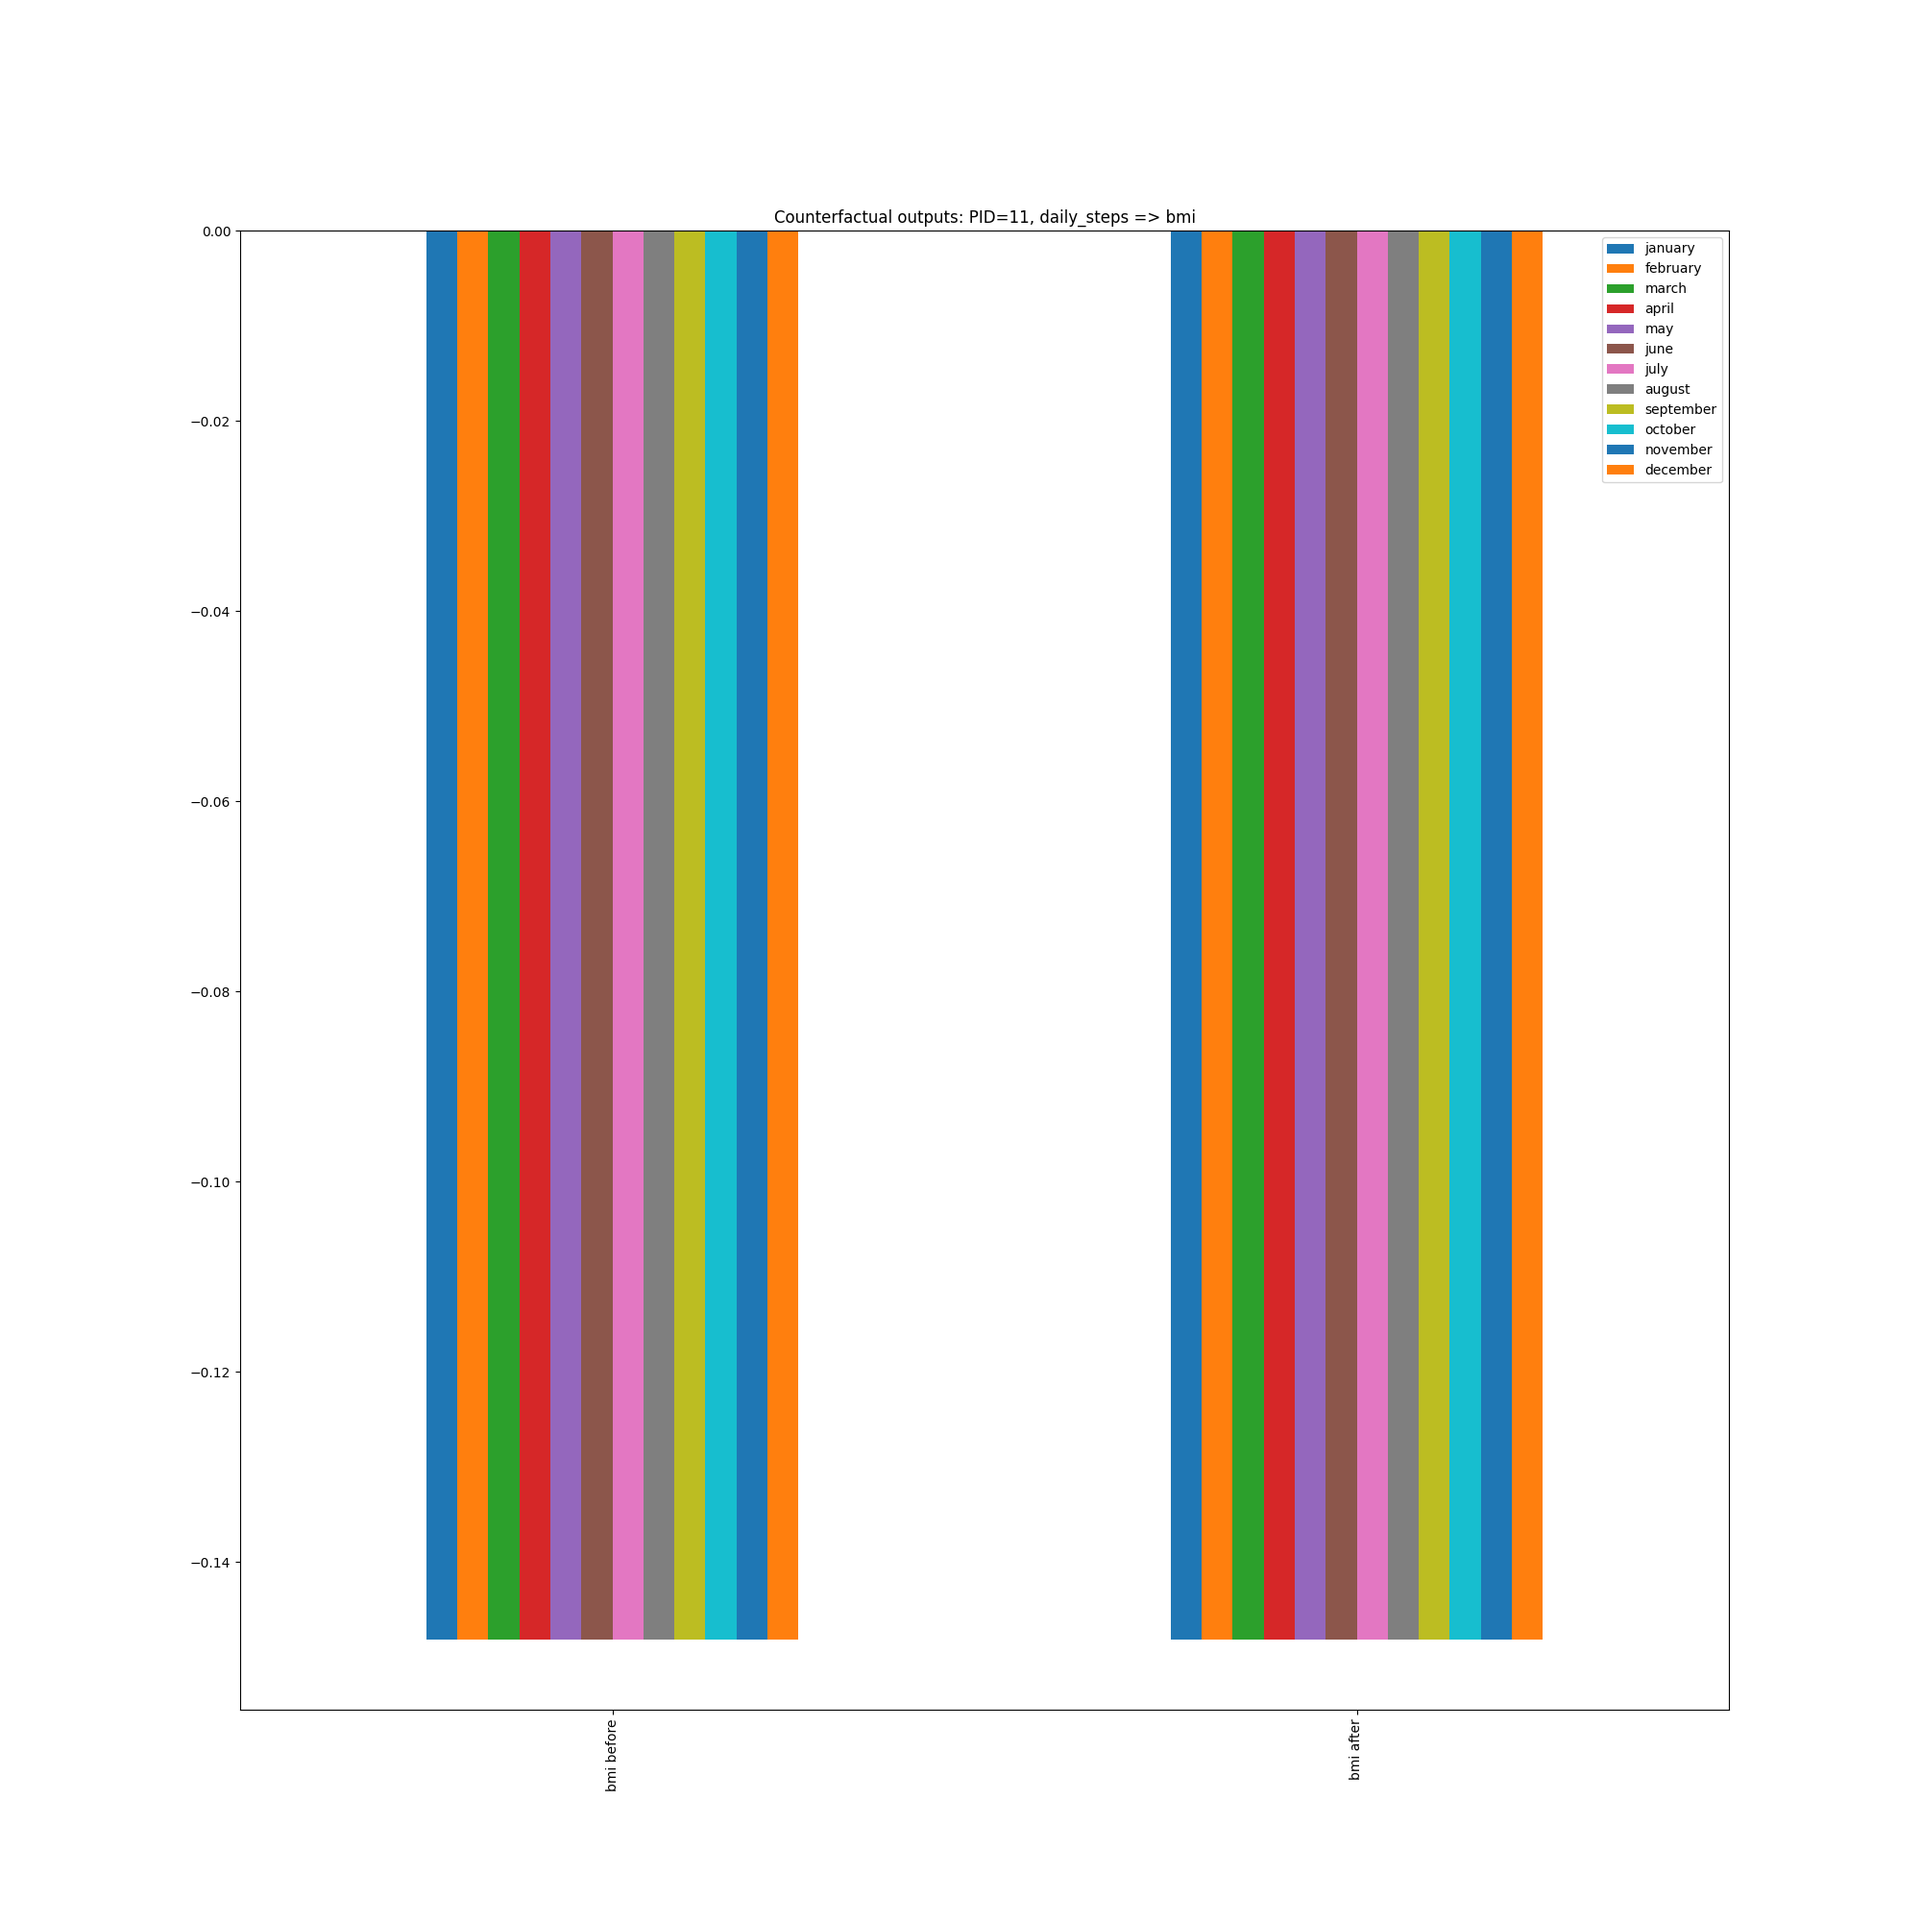
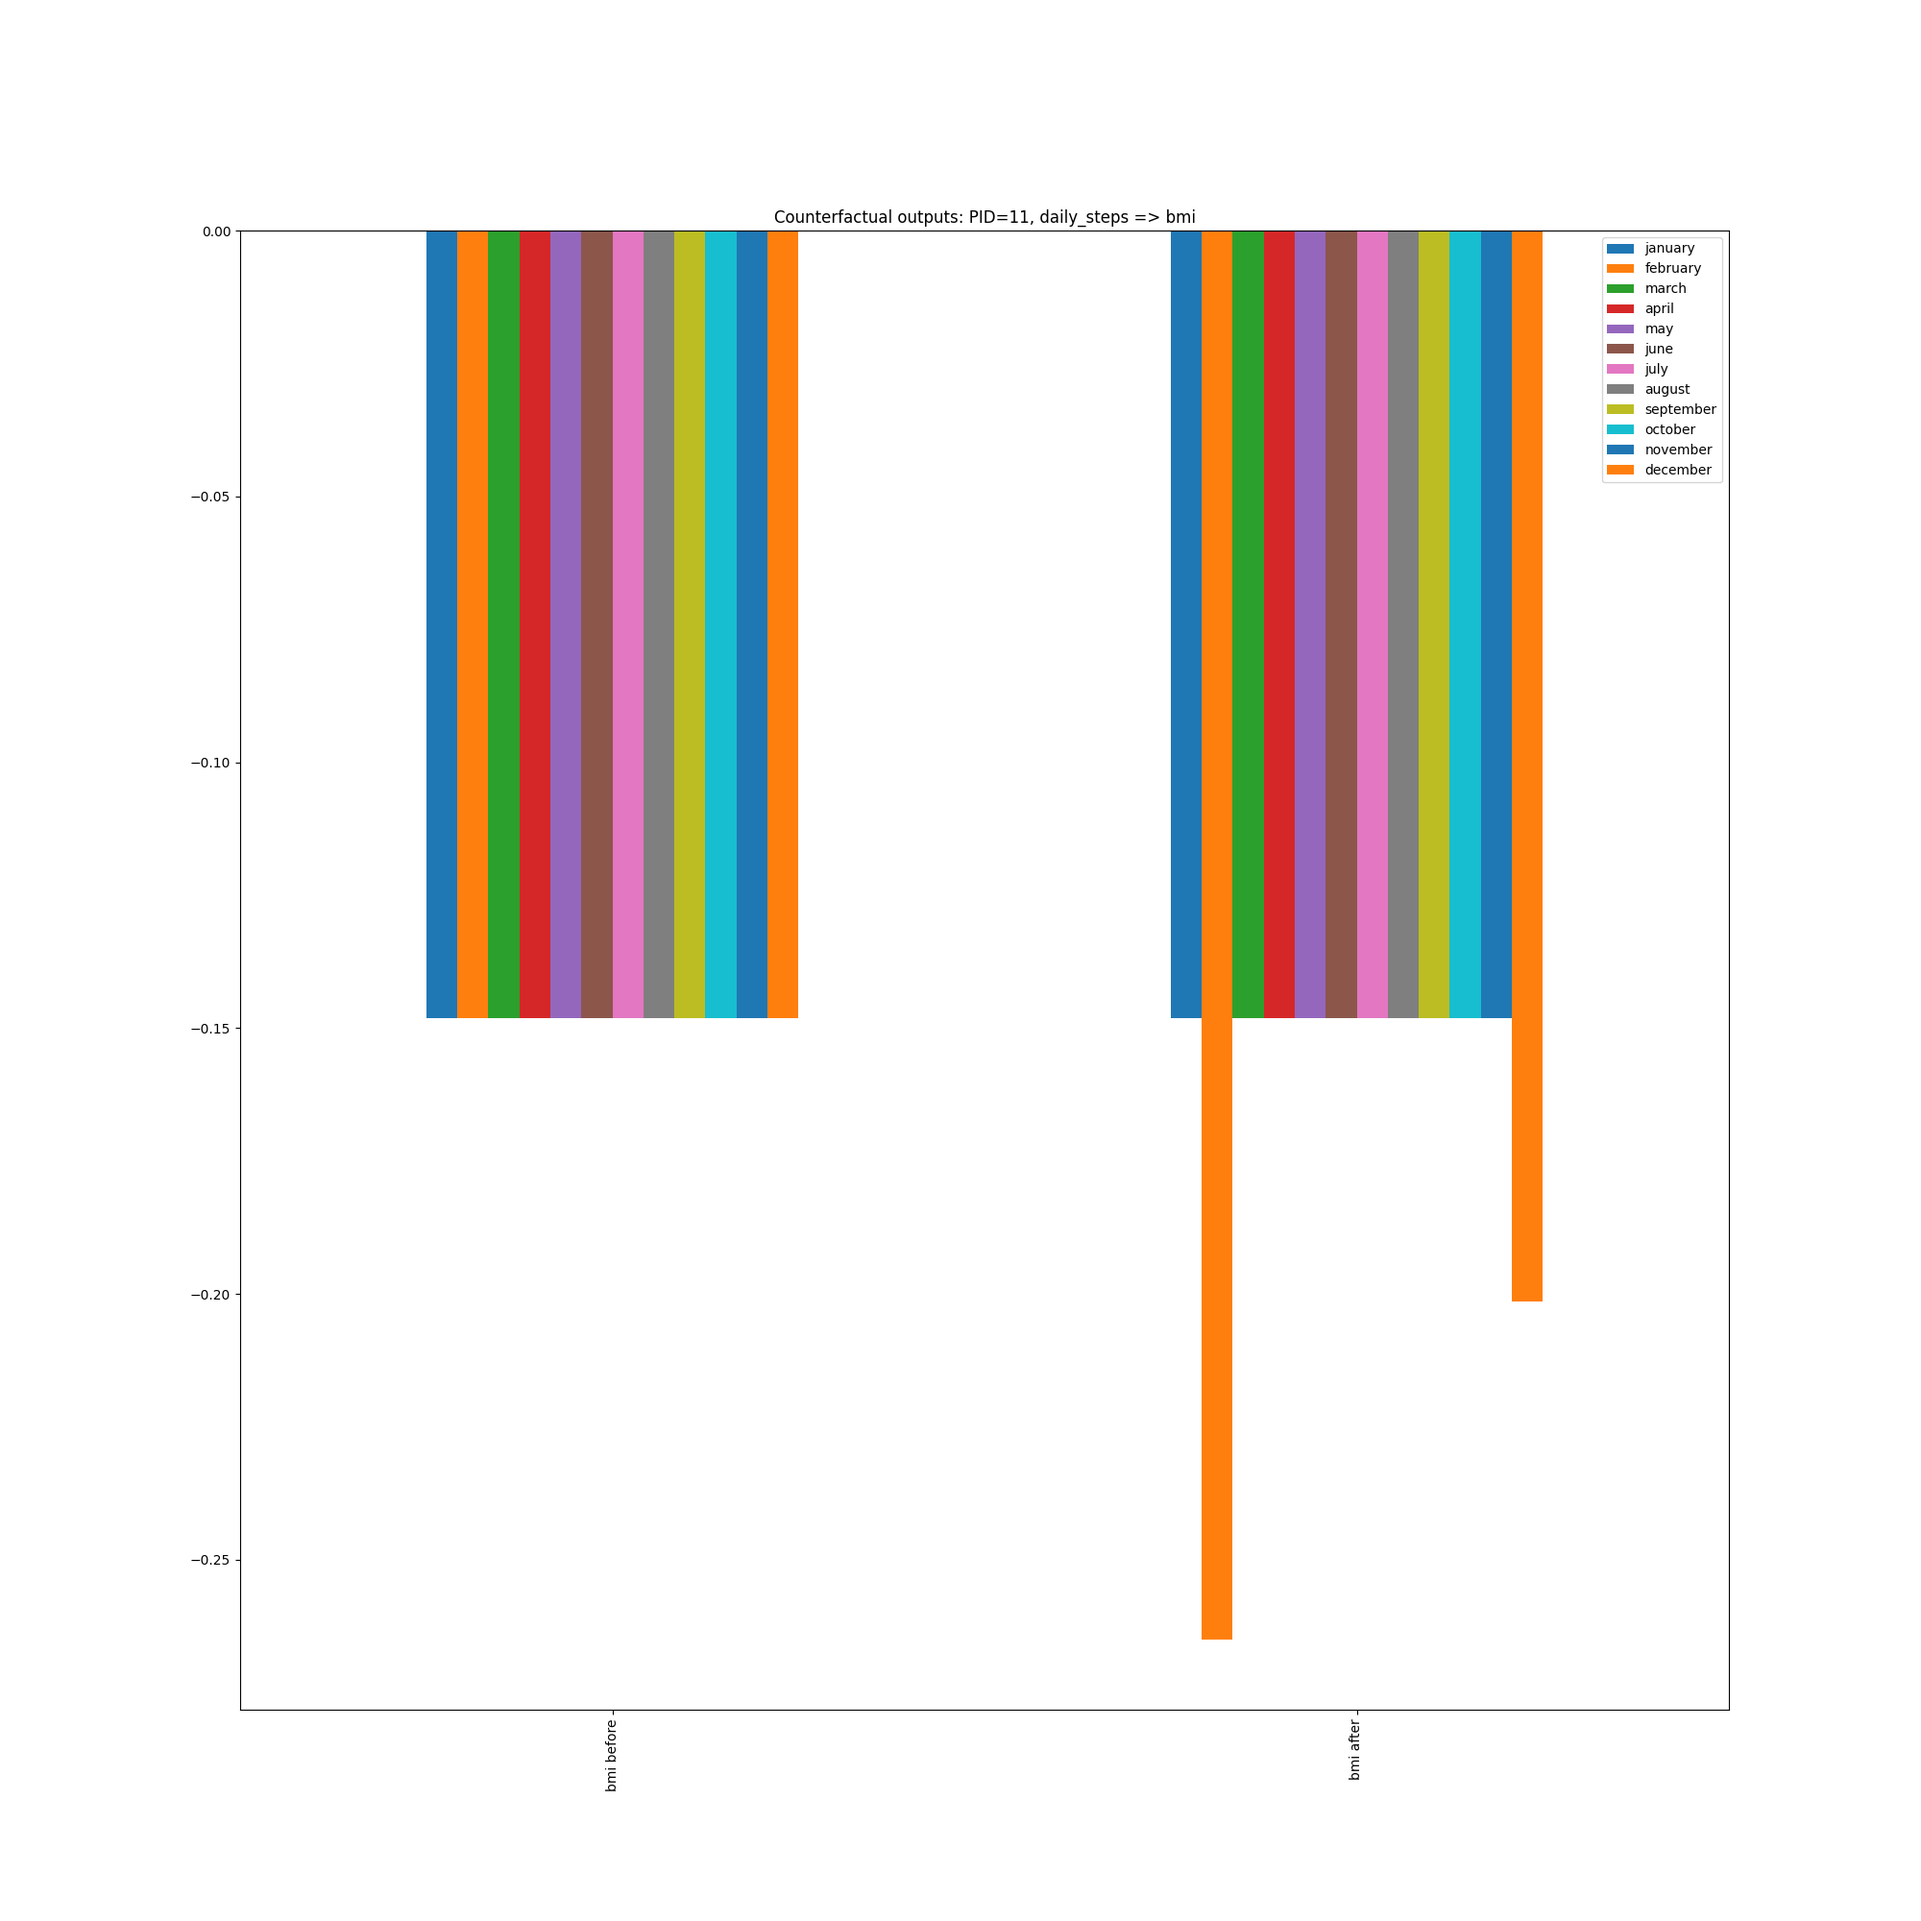
even more fixing on the graphs

Changed region(s): [[0.589, 0.527, 0.806, 0.868], [0.217, 0.527, 0.434, 0.868]]

diff --git a/personas_analysis.py b/personas_analysis.py
@@ -12,7 +12,9 @@ warnings.filterwarnings(action='ignore', category=UserWarning)
 
 set_random_seed(7)
 
-fitness_data = pd.read_csv(
+fitness_data_training = pd.read_csv(
+    '/Users/luca_lavazza/Documents/GitHub/Health_Cefriel/datasets/labelled_regularised_averaged_health_fitness_dataset_training.csv')
+fitness_data_testing = pd.read_csv(
     '/Users/luca_lavazza/Documents/GitHub/Health_Cefriel/datasets/labelled_regularised_averaged_health_fitness_dataset_testing.csv')
 edges = np.load(
     '/Users/luca_lavazza/Documents/GitHub/Health_Cefriel/graphs/causallearn/edges/npy/labelling_causal_graph_causal-learn_pc_fisherz.npy')
@@ -28,17 +30,16 @@ G.add_nodes_from(nodes)
 G.add_edges_from(edges)
 
 causal_model_for_counterfactual_analysis = InvertibleStructuralCausalModel(G)
-gcm.auto.assign_causal_mechanisms(causal_model=causal_model_for_counterfactual_analysis, based_on=fitness_data,
+gcm.auto.assign_causal_mechanisms(causal_model=causal_model_for_counterfactual_analysis, based_on=fitness_data_training,
                                   quality=AssignmentQuality.GOOD)
-fitting = gcm.fit(causal_model=causal_model_for_counterfactual_analysis, data=fitness_data,
+fitting = gcm.fit(causal_model=causal_model_for_counterfactual_analysis, data=fitness_data_training,
                   return_evaluation_summary=True)
-
 pids_personas = [2, 5, 6, 8, 11, 26, 30, 41, 108, 165, 202, 262]
 
 for pid in pids_personas:
     if pid == 2:
         # PID=2: reduce daily_steps
-        fitness_data_pid = fitness_data[fitness_data['participant_id'] == 2]
+        fitness_data_pid = fitness_data_testing[fitness_data_testing['participant_id'] == 2]
         counterfactual_data1 = gcm.counterfactual_samples(causal_model_for_counterfactual_analysis,
                                                           {'daily_steps': lambda x: x - 2},
                                                           observed_data=fitness_data_pid)
@@ -56,7 +57,7 @@ for pid in pids_personas:
         fig.savefig('/Users/luca_lavazza/Documents/GitHub/Health_Cefriel/graphs/Counterfactual-duration_minutes->calories_burned-pid=' + str(2))
     elif pid == 5:
         # PID=5: smoking_status => resting_heart_rate
-        fitness_data_pid = fitness_data[fitness_data['participant_id'] == 5]
+        fitness_data_pid = fitness_data_testing[fitness_data_testing['participant_id'] == 5]
         counterfactual_data1 = gcm.counterfactual_samples(causal_model_for_counterfactual_analysis,
                                                           {'smoking_status': lambda x: x + 1},  # from current to former
                                                           observed_data=fitness_data_pid)
@@ -77,7 +78,7 @@ for pid in pids_personas:
         fig.savefig('/Users/luca_lavazza/Documents/GitHub/Health_Cefriel/graphs/Counterfactual-duration_minutes->calories_burned-pid=' + str(5))
     elif pid == 6:
         # PID=6: duration_minutes => calories_burned
-        fitness_data_pid = fitness_data[fitness_data['participant_id'] == 6]
+        fitness_data_pid = fitness_data_testing[fitness_data_testing['participant_id'] == 6]
         counterfactual_data1 = gcm.counterfactual_samples(causal_model_for_counterfactual_analysis,
                                                           {'duration_minutes': lambda x: -3},
                                                           observed_data=fitness_data_pid)
@@ -95,7 +96,7 @@ for pid in pids_personas:
         fig.savefig('/Users/luca_lavazza/Documents/GitHub/Health_Cefriel/graphs/Counterfactual-duration_minutes->calories_burned-pid=' + str(6))
     elif pid == 8:
         # PID=8: increase duration_minutes
-        fitness_data_pid = fitness_data[fitness_data['participant_id'] == 8]
+        fitness_data_pid = fitness_data_testing[fitness_data_testing['participant_id'] == 8]
         counterfactual_data1 = gcm.counterfactual_samples(causal_model_for_counterfactual_analysis,
                                                           {'duration_minutes': lambda x: x + 4},
                                                           observed_data=fitness_data_pid)
@@ -114,7 +115,7 @@ for pid in pids_personas:
         fig.savefig('/Users/luca_lavazza/Documents/GitHub/Health_Cefriel/graphs/Counterfactual-duration_minutes->calories_burned-pid=' + str(8))
     elif pid == 11:
         # PID=11: daily_steps => bmi
-        fitness_data_pid = fitness_data[fitness_data['participant_id'] == 11]
+        fitness_data_pid = fitness_data_testing[fitness_data_testing['participant_id'] == 11]
         counterfactual_data1 = gcm.counterfactual_samples(causal_model_for_counterfactual_analysis,
                                                           {'daily_steps': lambda x: x + 2},
                                                           observed_data=fitness_data_pid)
@@ -127,7 +128,7 @@ for pid in pids_personas:
         fig.savefig('/Users/luca_lavazza/Documents/GitHub/Health_Cefriel/graphs/Counterfactual-duration_minutes->calories_burned-pid=' + str(11))
     elif pid == 26:
         # PID=26: intensity ==> avg_heart_rate
-        fitness_data_pid = fitness_data[fitness_data['participant_id'] == 26]
+        fitness_data_pid = fitness_data_testing[fitness_data_testing['participant_id'] == 26]
         counterfactual_data1 = gcm.counterfactual_samples(causal_model_for_counterfactual_analysis,
                                                           {'intensity': lambda x: 0},  # low intensity
                                                           observed_data=fitness_data_pid)
@@ -147,7 +148,7 @@ for pid in pids_personas:
         fig.savefig('/Users/luca_lavazza/Documents/GitHub/Health_Cefriel/graphs/Counterfactual-duration_minutes->calories_burned-pid=' + str(26))
     elif pid == 30:
         # PID=30: smoking_status ==> calories_burned
-        fitness_data_pid = fitness_data[fitness_data['participant_id'] == 30]
+        fitness_data_pid = fitness_data_testing[fitness_data_testing['participant_id'] == 30]
         counterfactual_data1 = gcm.counterfactual_samples(causal_model_for_counterfactual_analysis,
                                                           {'smoking_status': lambda x: x + 1},  # from current to former
                                                           observed_data=fitness_data_pid)
@@ -167,7 +168,7 @@ for pid in pids_personas:
         fig.savefig('/Users/luca_lavazza/Documents/GitHub/Health_Cefriel/graphs/Counterfactual-duration_minutes->calories_burned-pid=' + str(30))
     elif pid == 41:
         # PID=41: daily_steps ==> calories_burned
-        fitness_data_pid = fitness_data[fitness_data['participant_id'] == 41]
+        fitness_data_pid = fitness_data_testing[fitness_data_testing['participant_id'] == 41]
         counterfactual_data1 = gcm.counterfactual_samples(causal_model_for_counterfactual_analysis,
                                                           {'daily_steps': lambda x: x + 2},
                                                           observed_data=fitness_data_pid)
@@ -180,7 +181,7 @@ for pid in pids_personas:
         fig.savefig('/Users/luca_lavazza/Documents/GitHub/Health_Cefriel/graphs/Counterfactual-duration_minutes->calories_burned-pid=' + str(41))
     elif pid == 108:
         # PID=108: daily_steps ==> fitness_level
-        fitness_data_pid = fitness_data[fitness_data['participant_id'] == 108]
+        fitness_data_pid = fitness_data_testing[fitness_data_testing['participant_id'] == 108]
         counterfactual_data1 = gcm.counterfactual_samples(causal_model_for_counterfactual_analysis,
                                                           {'daily_steps': lambda x: x + 2},
                                                           observed_data=fitness_data_pid)
@@ -193,7 +194,7 @@ for pid in pids_personas:
         fig.savefig('/Users/luca_lavazza/Documents/GitHub/Health_Cefriel/graphs/Counterfactual-duration_minutes->calories_burned-pid=' + str(108))
     elif pid == 165:
         # PID=165: duration_minutes ==> fitness_level/bmi
-        fitness_data_pid = fitness_data[fitness_data['participant_id'] == 165]
+        fitness_data_pid = fitness_data_testing[fitness_data_testing['participant_id'] == 165]
         counterfactual_data1 = gcm.counterfactual_samples(causal_model_for_counterfactual_analysis,
                                                           {'duration_minutes': lambda x: x + 3},
                                                           observed_data=fitness_data_pid)
@@ -208,7 +209,7 @@ for pid in pids_personas:
         fig.savefig('/Users/luca_lavazza/Documents/GitHub/Health_Cefriel/graphs/Counterfactual-duration_minutes->calories_burned-pid=' + str(165))
     elif pid == 202:
         # PID=202: duration_minutes ==> resting_heart_rate
-        fitness_data_pid = fitness_data[fitness_data['participant_id'] == 202]
+        fitness_data_pid = fitness_data_testing[fitness_data_testing['participant_id'] == 202]
         counterfactual_data1 = gcm.counterfactual_samples(causal_model_for_counterfactual_analysis,
                                                           {'duration_minutes': lambda x: x + 3},
                                                           observed_data=fitness_data_pid)
@@ -222,7 +223,7 @@ for pid in pids_personas:
         fig.savefig('/Users/luca_lavazza/Documents/GitHub/Health_Cefriel/graphs/Counterfactual-duration_minutes->calories_burned-pid=' + str(202))
     elif pid == 262:
         # PID=262: daily_steps ==> fitness_level + duration_minutes ==> fitness_level
-        fitness_data_pid = fitness_data[fitness_data['participant_id'] == 262]
+        fitness_data_pid = fitness_data_testing[fitness_data_testing['participant_id'] == 262]
         counterfactual_data1 = gcm.counterfactual_samples(causal_model_for_counterfactual_analysis,
                                                           {'duration_minutes': lambda x: x + 3,
                                                            'daily_steps': lambda x: x + 2},
